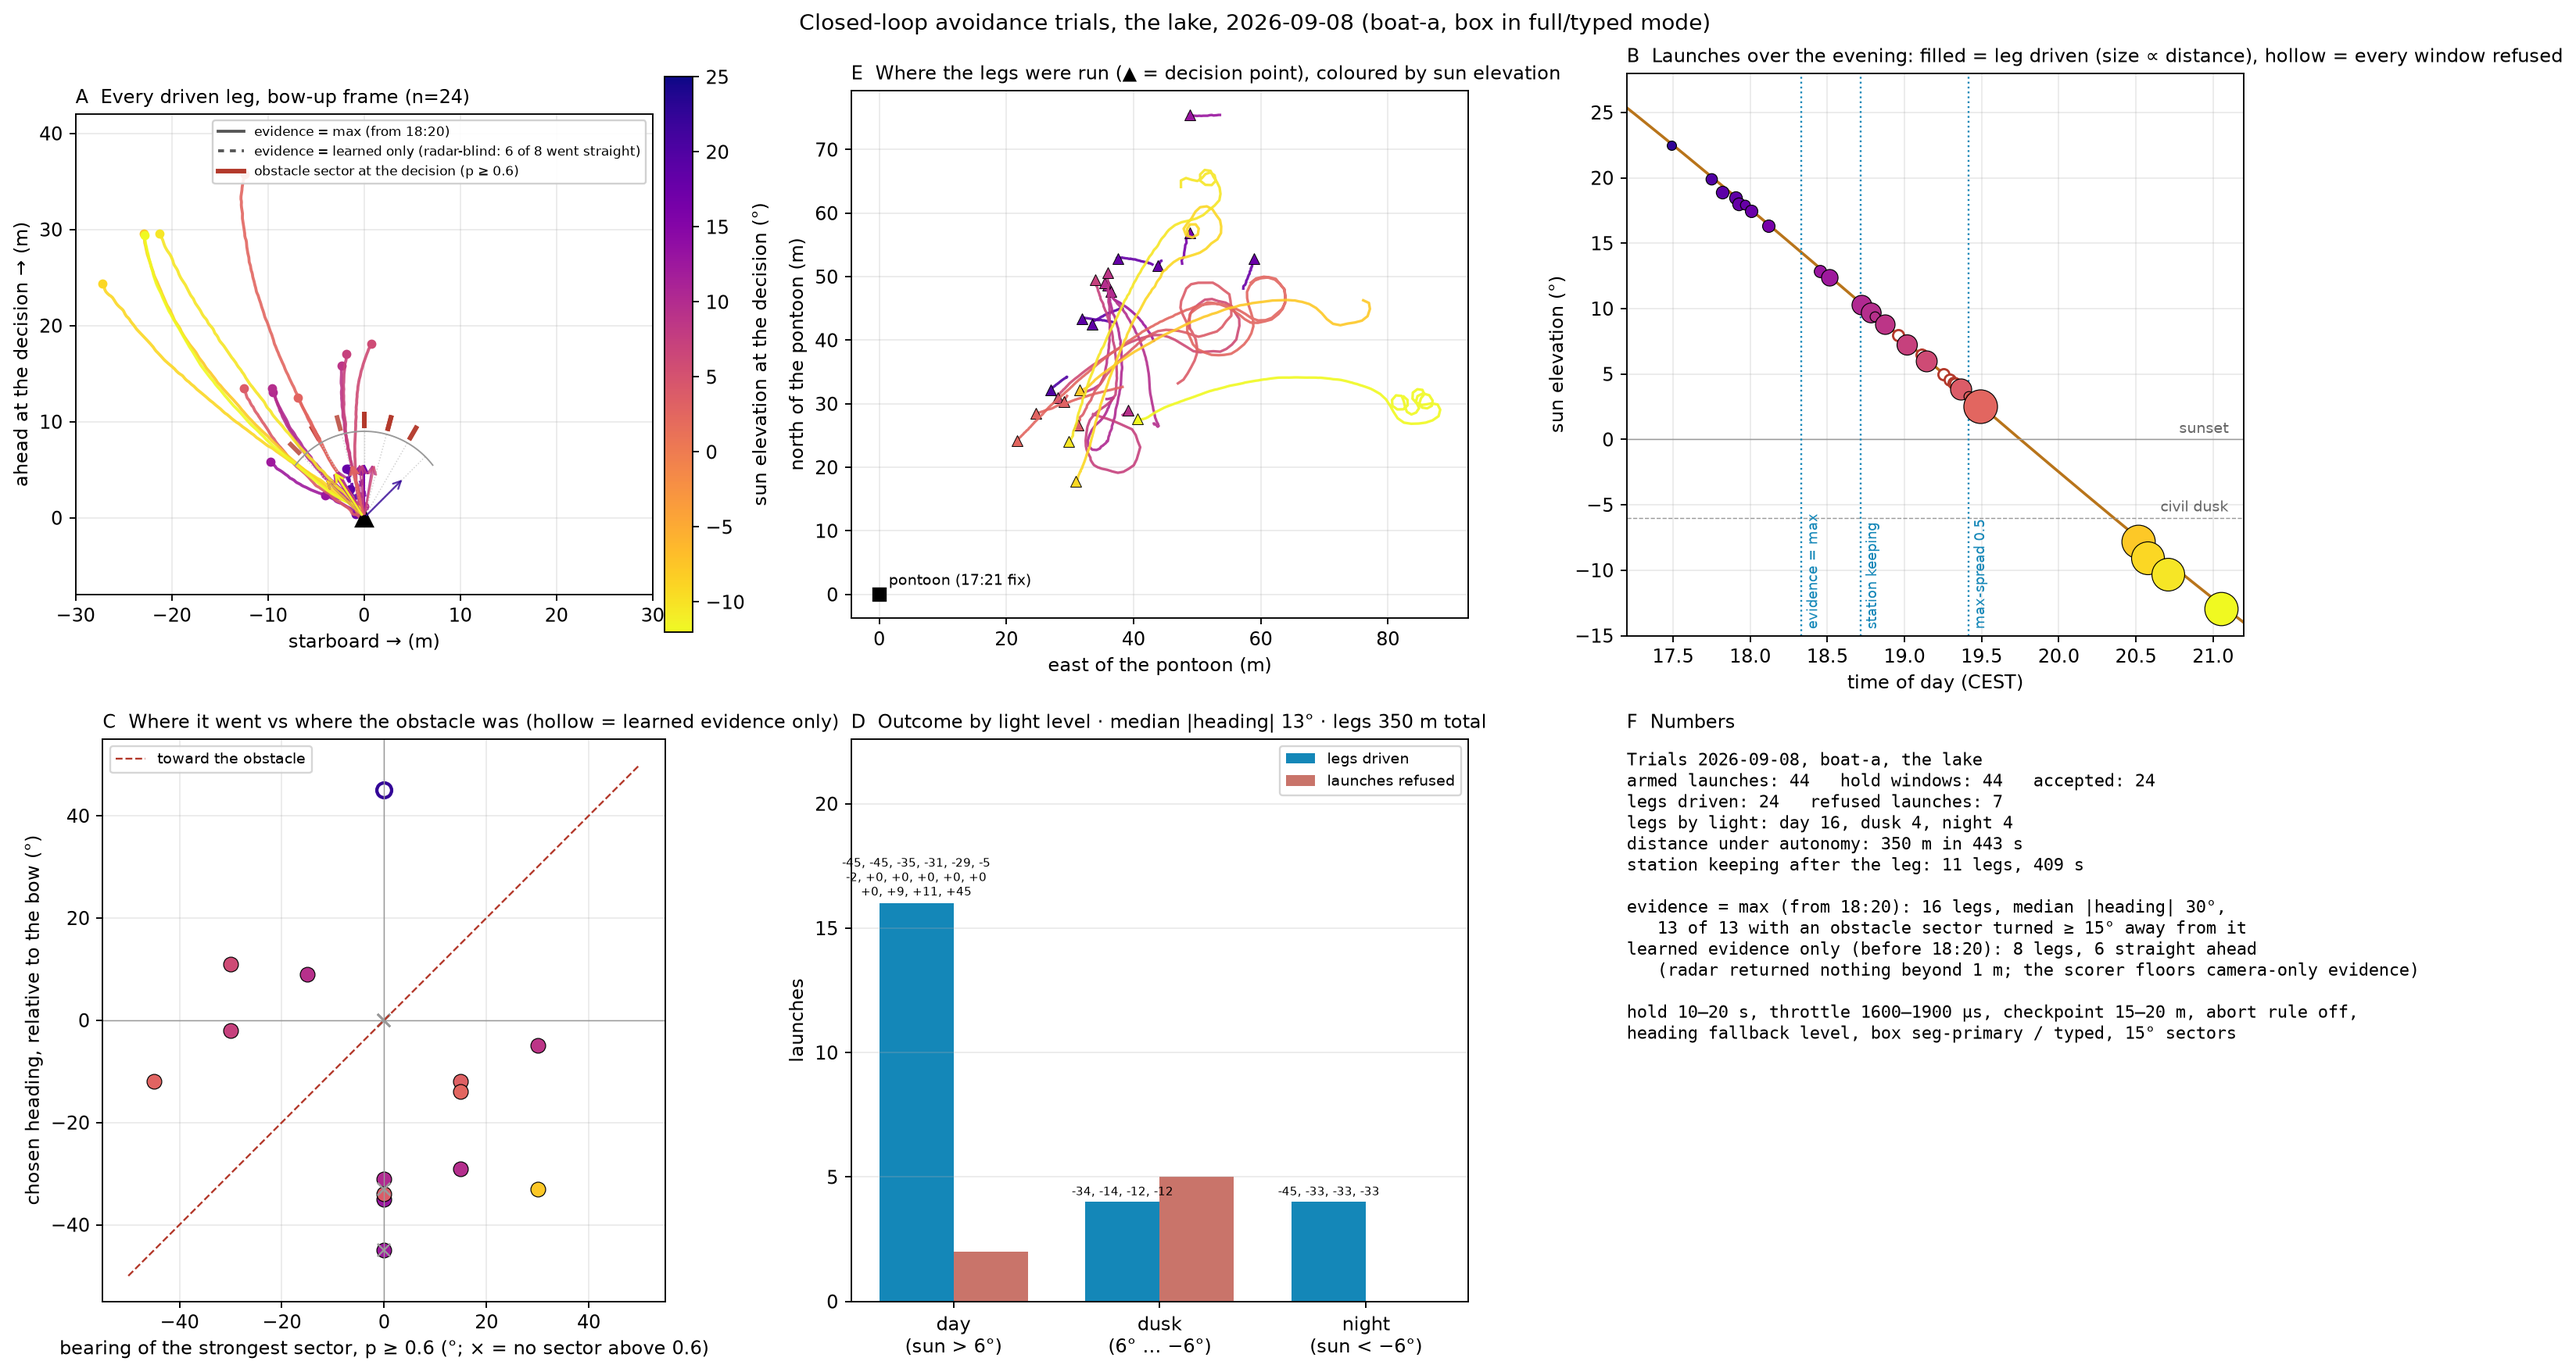
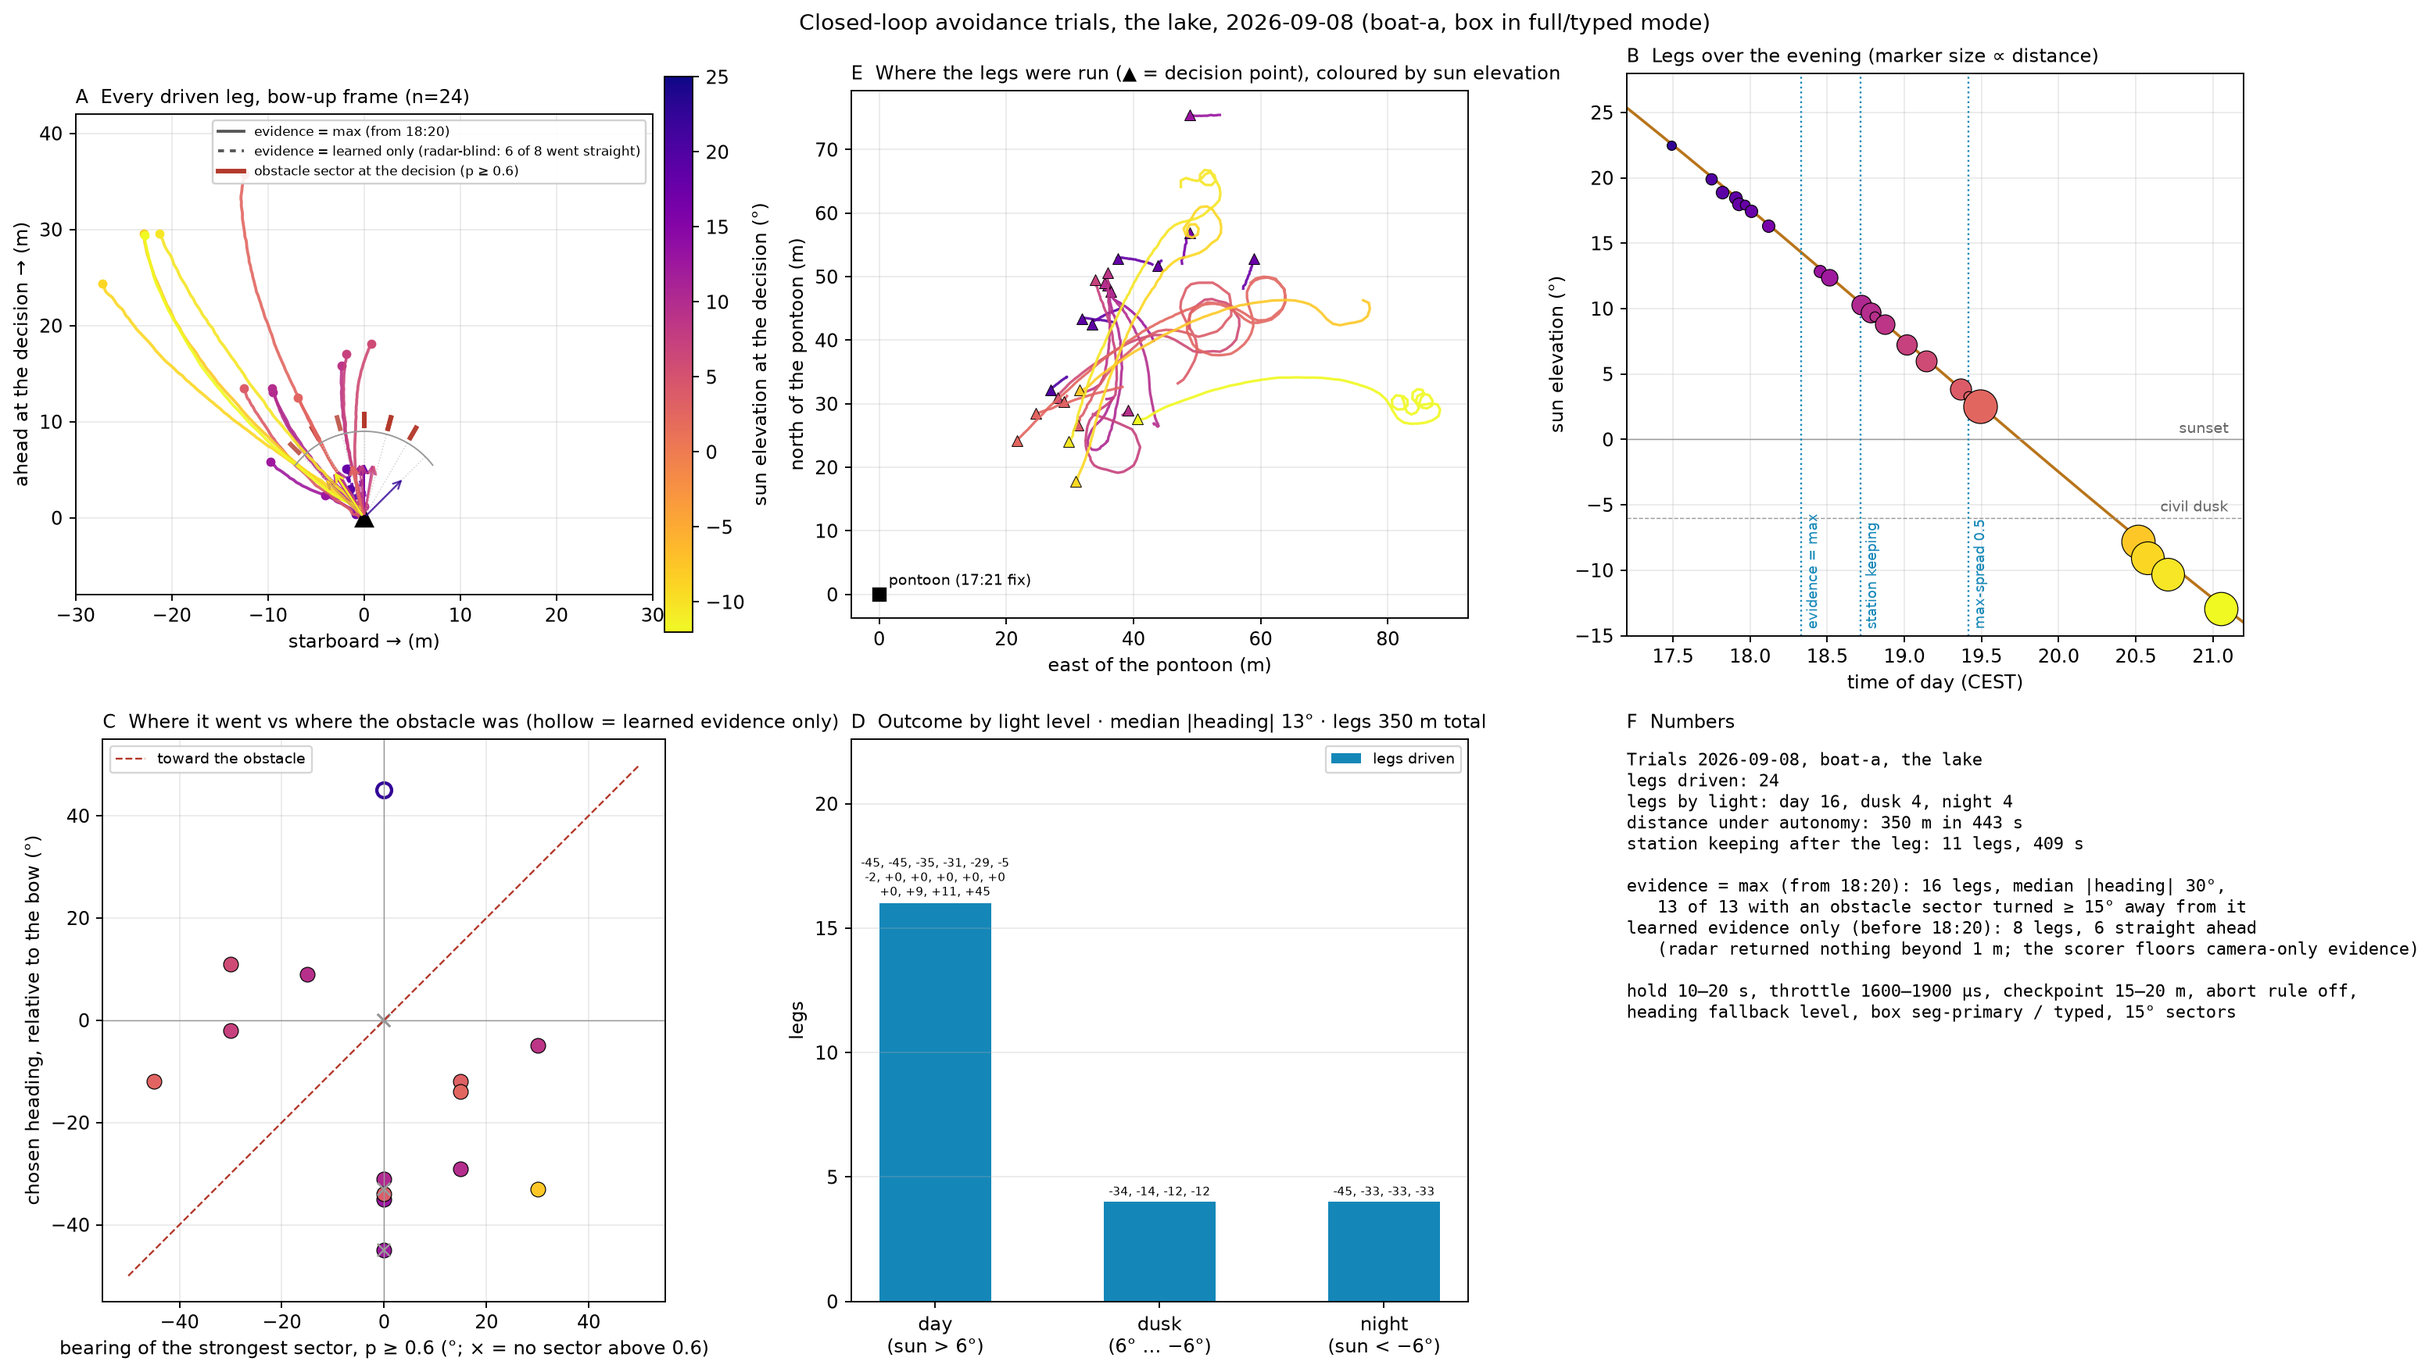
README: closed-loop summary shows driven legs only (--legs-only in closed_loop_figures.py); per-launch table dropped

diff --git a/scripts/eval/closed_loop_figures.py b/scripts/eval/closed_loop_figures.py
@@ -326,7 +326,8 @@ def per_trial_figure(tr, logs_dir, capture_dir, out):
     plt.close(fig)
 
 
-def summary_figure(trials, out):
+def summary_figure(trials, out, legs_only=False):
+    """legs_only: show driven legs only (no refused-launch markers, bars or counts)."""
     import matplotlib
     matplotlib.use("Agg")
     import matplotlib.pyplot as plt
@@ -362,8 +363,9 @@ def summary_figure(trials, out):
     mx = [t for t in acc if t.evidence == "max"]
     lines = [
         "Trials 2026-09-08, boat-a, the lake",
-        f"armed launches: {len(armed)}   hold windows: {windows}   accepted: {ok_w}",
-        f"legs driven: {len(acc)}   refused launches: {len(refused)}",
+        *([f"legs driven: {len(acc)}"] if legs_only else
+          [f"armed launches: {len(armed)}   hold windows: {windows}   accepted: {ok_w}",
+           f"legs driven: {len(acc)}   refused launches: {len(refused)}"]),
         f"legs by light: day {sum(t.light()=='day' for t in acc)}, dusk {sum(t.light()=='dusk' for t in acc)}, night {sum(t.light()=='night' for t in acc)}",
         f"distance under autonomy: {sum(t.moved for t in acc):.0f} m in {sum(t.leg_s for t in acc):.0f} s",
         f"station keeping after the leg: {sum(1 for t in acc if t.station)} legs, {sum(len(t.station) for t in acc)} s",
@@ -425,7 +427,7 @@ def summary_figure(trials, out):
         h = t.t_start.hour + t.t_start.minute / 60 + t.t_start.second / 3600
         if t.decision and t.cycles:
             ax.plot(h, t.sun, "o", color=cmap(norm(t.sun)), ms=5 + 0.35 * t.moved, mec="k", mew=0.5, zorder=4)
-        elif t.decides:
+        elif t.decides and not legs_only:
             ax.plot(h, t.sun, "o", color="white", mec="#B3392B", mew=1.2, ms=6, zorder=4)
     for h, lab in ((18 + 20 / 60, "evidence = max"), (18 + 43 / 60, "station keeping"), (19 + 25 / 60, "max-spread 0.5")):
         ax.axvline(h, color="#1487B8", lw=1, ls=":")
@@ -433,7 +435,7 @@ def summary_figure(trials, out):
     ax.set_xlim(17.2, 21.2); ax.set_ylim(-15, 28)
     ax.set_xlabel("time of day (CEST)"); ax.set_ylabel("sun elevation (°)")
     ax.text(21.1, 0.5, "sunset", ha="right", fontsize=8, color="#666"); ax.text(21.1, -5.5, "civil dusk", ha="right", fontsize=8, color="#666")
-    ax.set_title("B  Launches over the evening: filled = leg driven (size ∝ distance), hollow = every window refused", fontsize=10, loc="left")
+    ax.set_title("B  Legs over the evening (marker size ∝ distance)" if legs_only else "B  Launches over the evening: filled = leg driven (size ∝ distance), hollow = every window refused", fontsize=10, loc="left")
     ax.grid(alpha=0.25)
     # C: chosen heading vs obstacle bearing
     ax = axs[1, 0]
@@ -465,16 +467,18 @@ def summary_figure(trials, out):
         if t.armed and t.decides and not t.cycles:
             ref[t.light()] += 1
     x = np.arange(3)
-    ax.bar(x - 0.18, vals, 0.36, color="#1487B8", label="legs driven")
-    ax.bar(x + 0.18, [ref[k] for k in labels], 0.36, color="#B3392B", alpha=0.7, label="launches refused")
+    xoff = 0.0 if legs_only else -0.18
+    ax.bar(x + xoff, vals, 0.5 if legs_only else 0.36, color="#1487B8", label="legs driven")
+    if not legs_only:
+        ax.bar(x + 0.18, [ref[k] for k in labels], 0.36, color="#B3392B", alpha=0.7, label="launches refused")
     for i, k in enumerate(labels):
         if by[k]:
             hs = [f"{v:+.0f}" for v in sorted(by[k])]
             lines = [", ".join(hs[j:j + 6]) for j in range(0, len(hs), 6)]
-            ax.text(i - 0.18, vals[i] + 0.15, "\n".join(lines), ha="center", va="bottom", fontsize=6.5)
+            ax.text(i + xoff, vals[i] + 0.15, "\n".join(lines), ha="center", va="bottom", fontsize=6.5)
     ax.set_xticks(x); ax.set_xticklabels([f"{k}\n(sun > 6°)" if k == "day" else (f"{k}\n(6° … −6°)" if k == "dusk" else f"{k}\n(sun < −6°)") for k in labels])
-    ax.set_ylabel("launches"); ax.legend(fontsize=8, loc="upper right"); ax.grid(alpha=0.25, axis="y")
-    ax.set_ylim(0, max(vals + [ref[k] for k in labels]) * 1.35 + 1)
+    ax.set_ylabel("legs" if legs_only else "launches"); ax.legend(fontsize=8, loc="upper right"); ax.grid(alpha=0.25, axis="y")
+    ax.set_ylim(0, max(vals + ([] if legs_only else [ref[k] for k in labels])) * 1.35 + 1)
     med = np.median([abs(t.rel) for t in acc if t.rel is not None]) if acc else float("nan")
     ax.set_title(f"D  Outcome by light level · median |heading| {med:.0f}° · legs {sum(t.moved for t in acc):.0f} m total", fontsize=10, loc="left")
     fig.suptitle("Closed-loop avoidance trials, the lake, 2026-09-08 (boat-a, box in full/typed mode)", fontsize=12)
@@ -503,13 +507,14 @@ def main():
     ap.add_argument("--out", required=True)
     ap.add_argument("--since", default="17:25", help="ignore launches before this time (HH:MM)")
     ap.add_argument("--select", nargs="*", default=[], help="HHMMSS stamps for per-trial figures (default: every driven leg)")
+    ap.add_argument("--legs-only", action="store_true", help="summary shows driven legs only (no refused-launch markers, bars or counts)")
     a = ap.parse_args()
     os.makedirs(a.out, exist_ok=True)
     trials = [Trial(p) for p in sorted(glob.glob(os.path.join(a.logs, "sector_experiment_*.jsonl")))]
     hh, mm = map(int, a.since.split(":"))
     trials = [t for t in trials if t.t_start and (t.t_start.hour, t.t_start.minute) >= (hh, mm)]
     write_csv(trials, a.out)
-    summary_figure(trials, a.out)
+    summary_figure(trials, a.out, legs_only=a.legs_only)
     sel = set(a.select)
     for t in trials:
         if (sel and t.stamp[9:] in sel) or (not sel and t.decision and t.cycles):

diff --git a/README.md b/README.md
@@ -500,14 +500,14 @@ through the pipeline, and the test suite in one command.
 ## Closed-loop trials
 
 On 2026-09-08 the chain box → Bluetooth LE sector stream → navigation
-controller → rudder was run on the lake from daylight into night: 44 armed
-launches, **24 driven legs (16 day, 4 dusk, 4 night), 350 m under autonomy**,
-with the crew's RC switch as the only other control. Each launch holds station
+controller → rudder was run on the lake from daylight into night: **24 driven
+legs (16 day, 4 dusk, 4 night), 350 m under autonomy**, with the crew's RC
+switch as the only other control. Each launch holds station
 for 10 to 20 s, takes the median sector field, chooses the least-obstructed
 heading within ±45° (with a closeness penalty on radar returns inside 8 m) and
 drives a 15 to 20 m checkpoint at low throttle. The figures are generated from
-the boat's own decision logs by `scripts/eval/closed_loop_figures.py`; the
-per-launch table is `images/closed_loop/trials.csv`.
+the boat's own decision logs by `scripts/eval/closed_loop_figures.py`
+(`--legs-only`).
 
 ![Closed-loop trials, 2026-09-08](images/closed_loop/summary.png)
 
